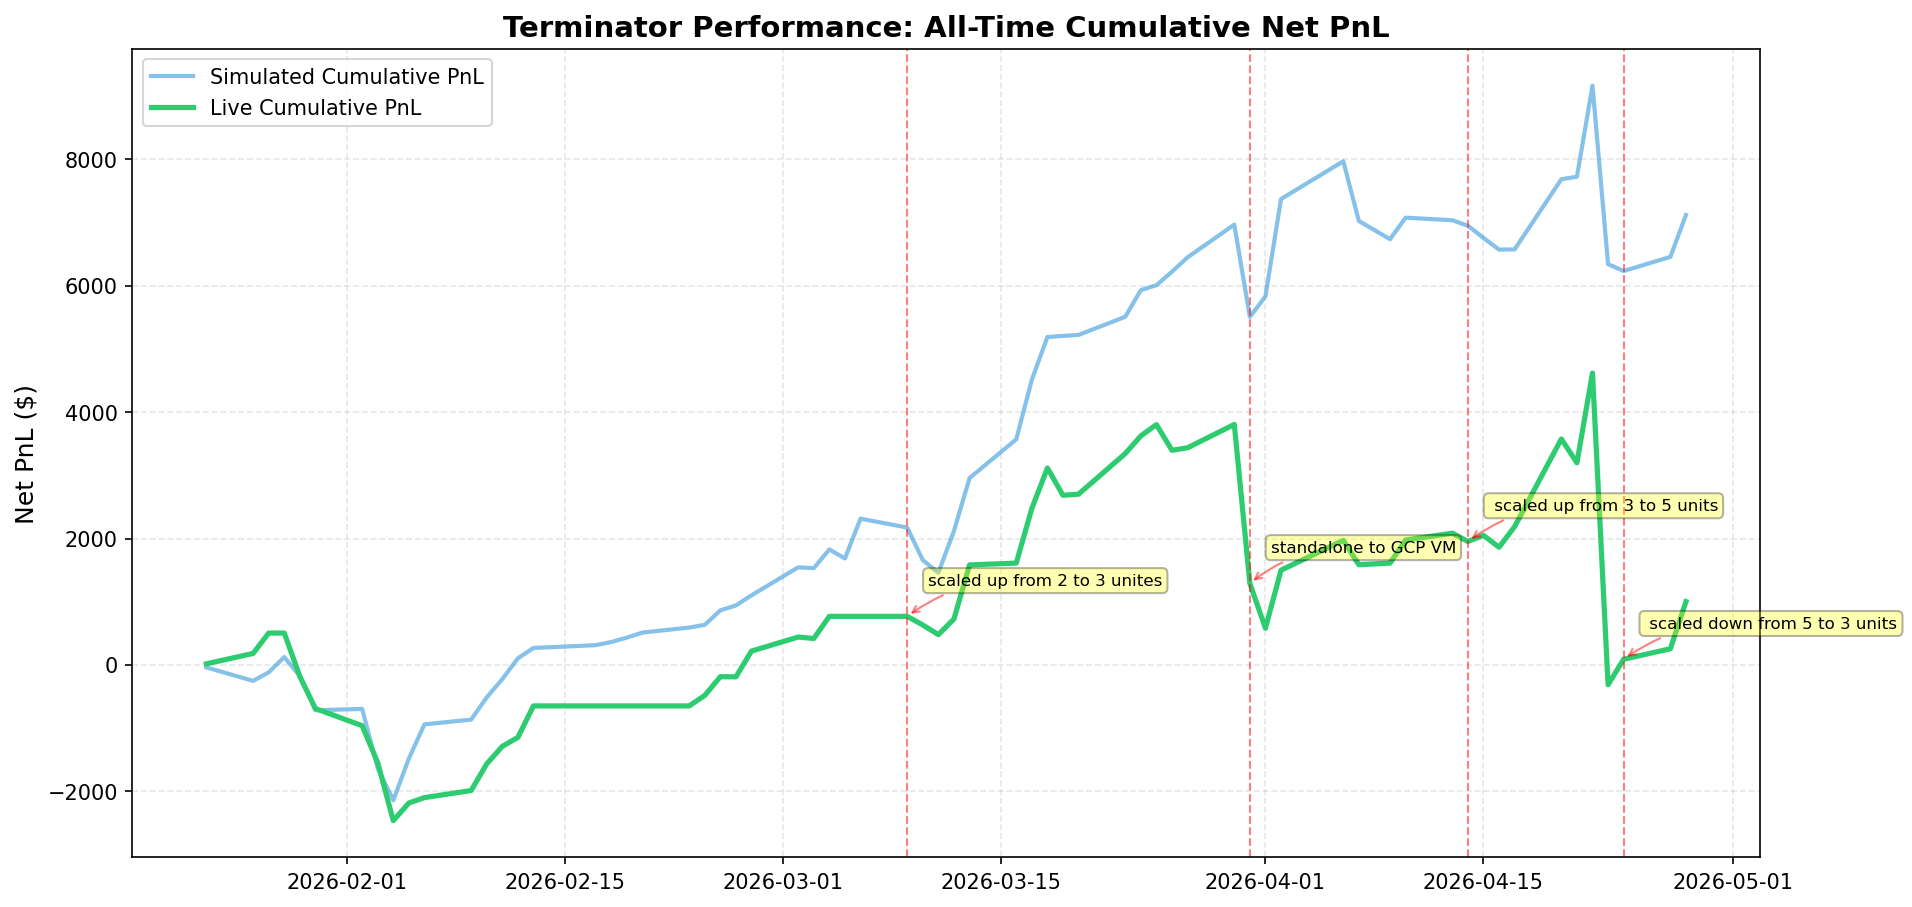
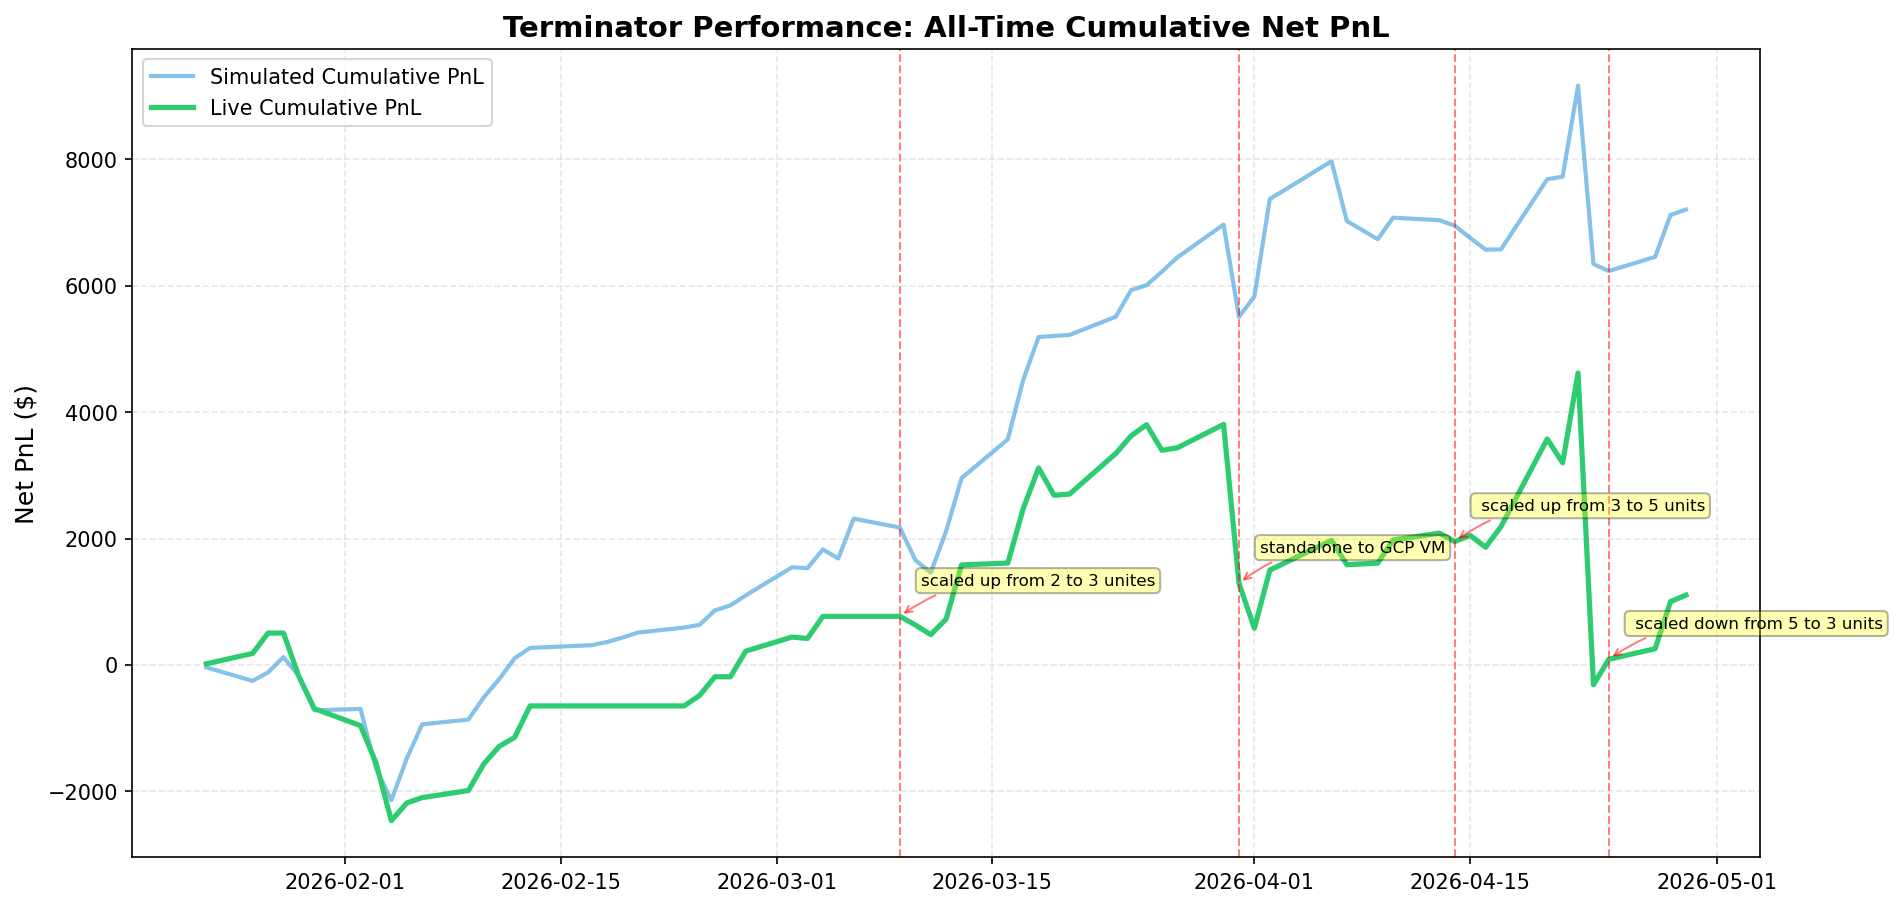
docs: auto-update performance stats 2026-04-29

diff --git a/README.md b/README.md
@@ -118,12 +118,12 @@ The system uses a **GitHub Pull-based** deployment model. Code is automatically 
 
 | Period | Days | Total PnL | Trades/Day | Fees | Net PnL | Win % | Profit Factor | Sharpe | Max DD | Live OverTrade % | Live-Sim Net PnL Diff |
 | :--- | :--- | :--- | :--- | :--- | :--- | :--- | :--- | :--- | :--- | :--- | :--- |
-| Past 5D | 5 | $-1,975.00 | 14.2 | $221.48 | **$-2,196.48** | 80.0% | 0.55 | -2.73 | $-4,933.62 | -21.1% | $-1,590.38 |
-| Past 22D | 22 | $-1,717.50 | 14.5 | $1,083.67 | **$-2,801.17** | 63.6% | 0.71 | -1.51 | $-4,933.62 | -17.3% | $-3,912.47 |
-| YTD | 65 | $3,275.00 | 20.2 | $2,273.56 | **$1,001.44** | 58.5% | 1.07 | 0.30 | $-4,933.62 | -13.9% | $-6,119.74 |
-| All Time | 65 | $3,275.00 | 20.2 | $2,273.56 | **$1,001.44** | 58.5% | 1.07 | 0.30 | $-4,933.62 | -13.9% | $-6,119.74 |
+| Past 5D | 5 | $-3,300.00 | 13.8 | $214.70 | **$-3,514.70** | 80.0% | 0.29 | -4.69 | $0.00 | -25.0% | $-1,553.60 |
+| Past 22D | 22 | $-1,217.50 | 14.4 | $1,074.63 | **$-2,292.13** | 68.2% | 0.75 | -1.24 | $-4,933.62 | -17.9% | $-3,274.73 |
+| YTD | 66 | $3,410.00 | 20.0 | $2,305.20 | **$1,104.80** | 59.1% | 1.08 | 0.32 | $-4,933.62 | -13.9% | $-6,102.24 |
+| All Time | 66 | $3,410.00 | 20.0 | $2,305.20 | **$1,104.80** | 59.1% | 1.08 | 0.32 | $-4,933.62 | -13.9% | $-6,102.24 |
 
 
-*Updated: 2026-04-28 16:00:07*
+*Updated: 2026-04-29 16:00:08*
 
 <!-- STATS_END -->
